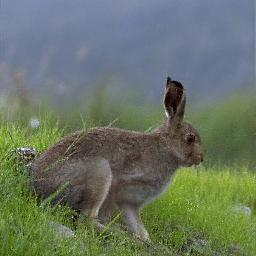
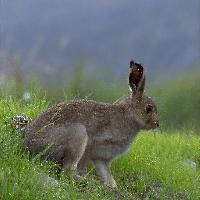
Downsize README imgs in hope that the render properly

diff --git a/parse_ec2_results.py b/parse_ec2_results.py
@@ -4,7 +4,7 @@ import numpy as np
 
 input_folder = './ec2_output_deconv/'
 output_name = 'deconv'
-output_size = 256
+output_size = 200
 
 def make_gif(output_file=output_name+'.gif', folder=input_folder+'output/', output_size=output_size):
     imgs = []
